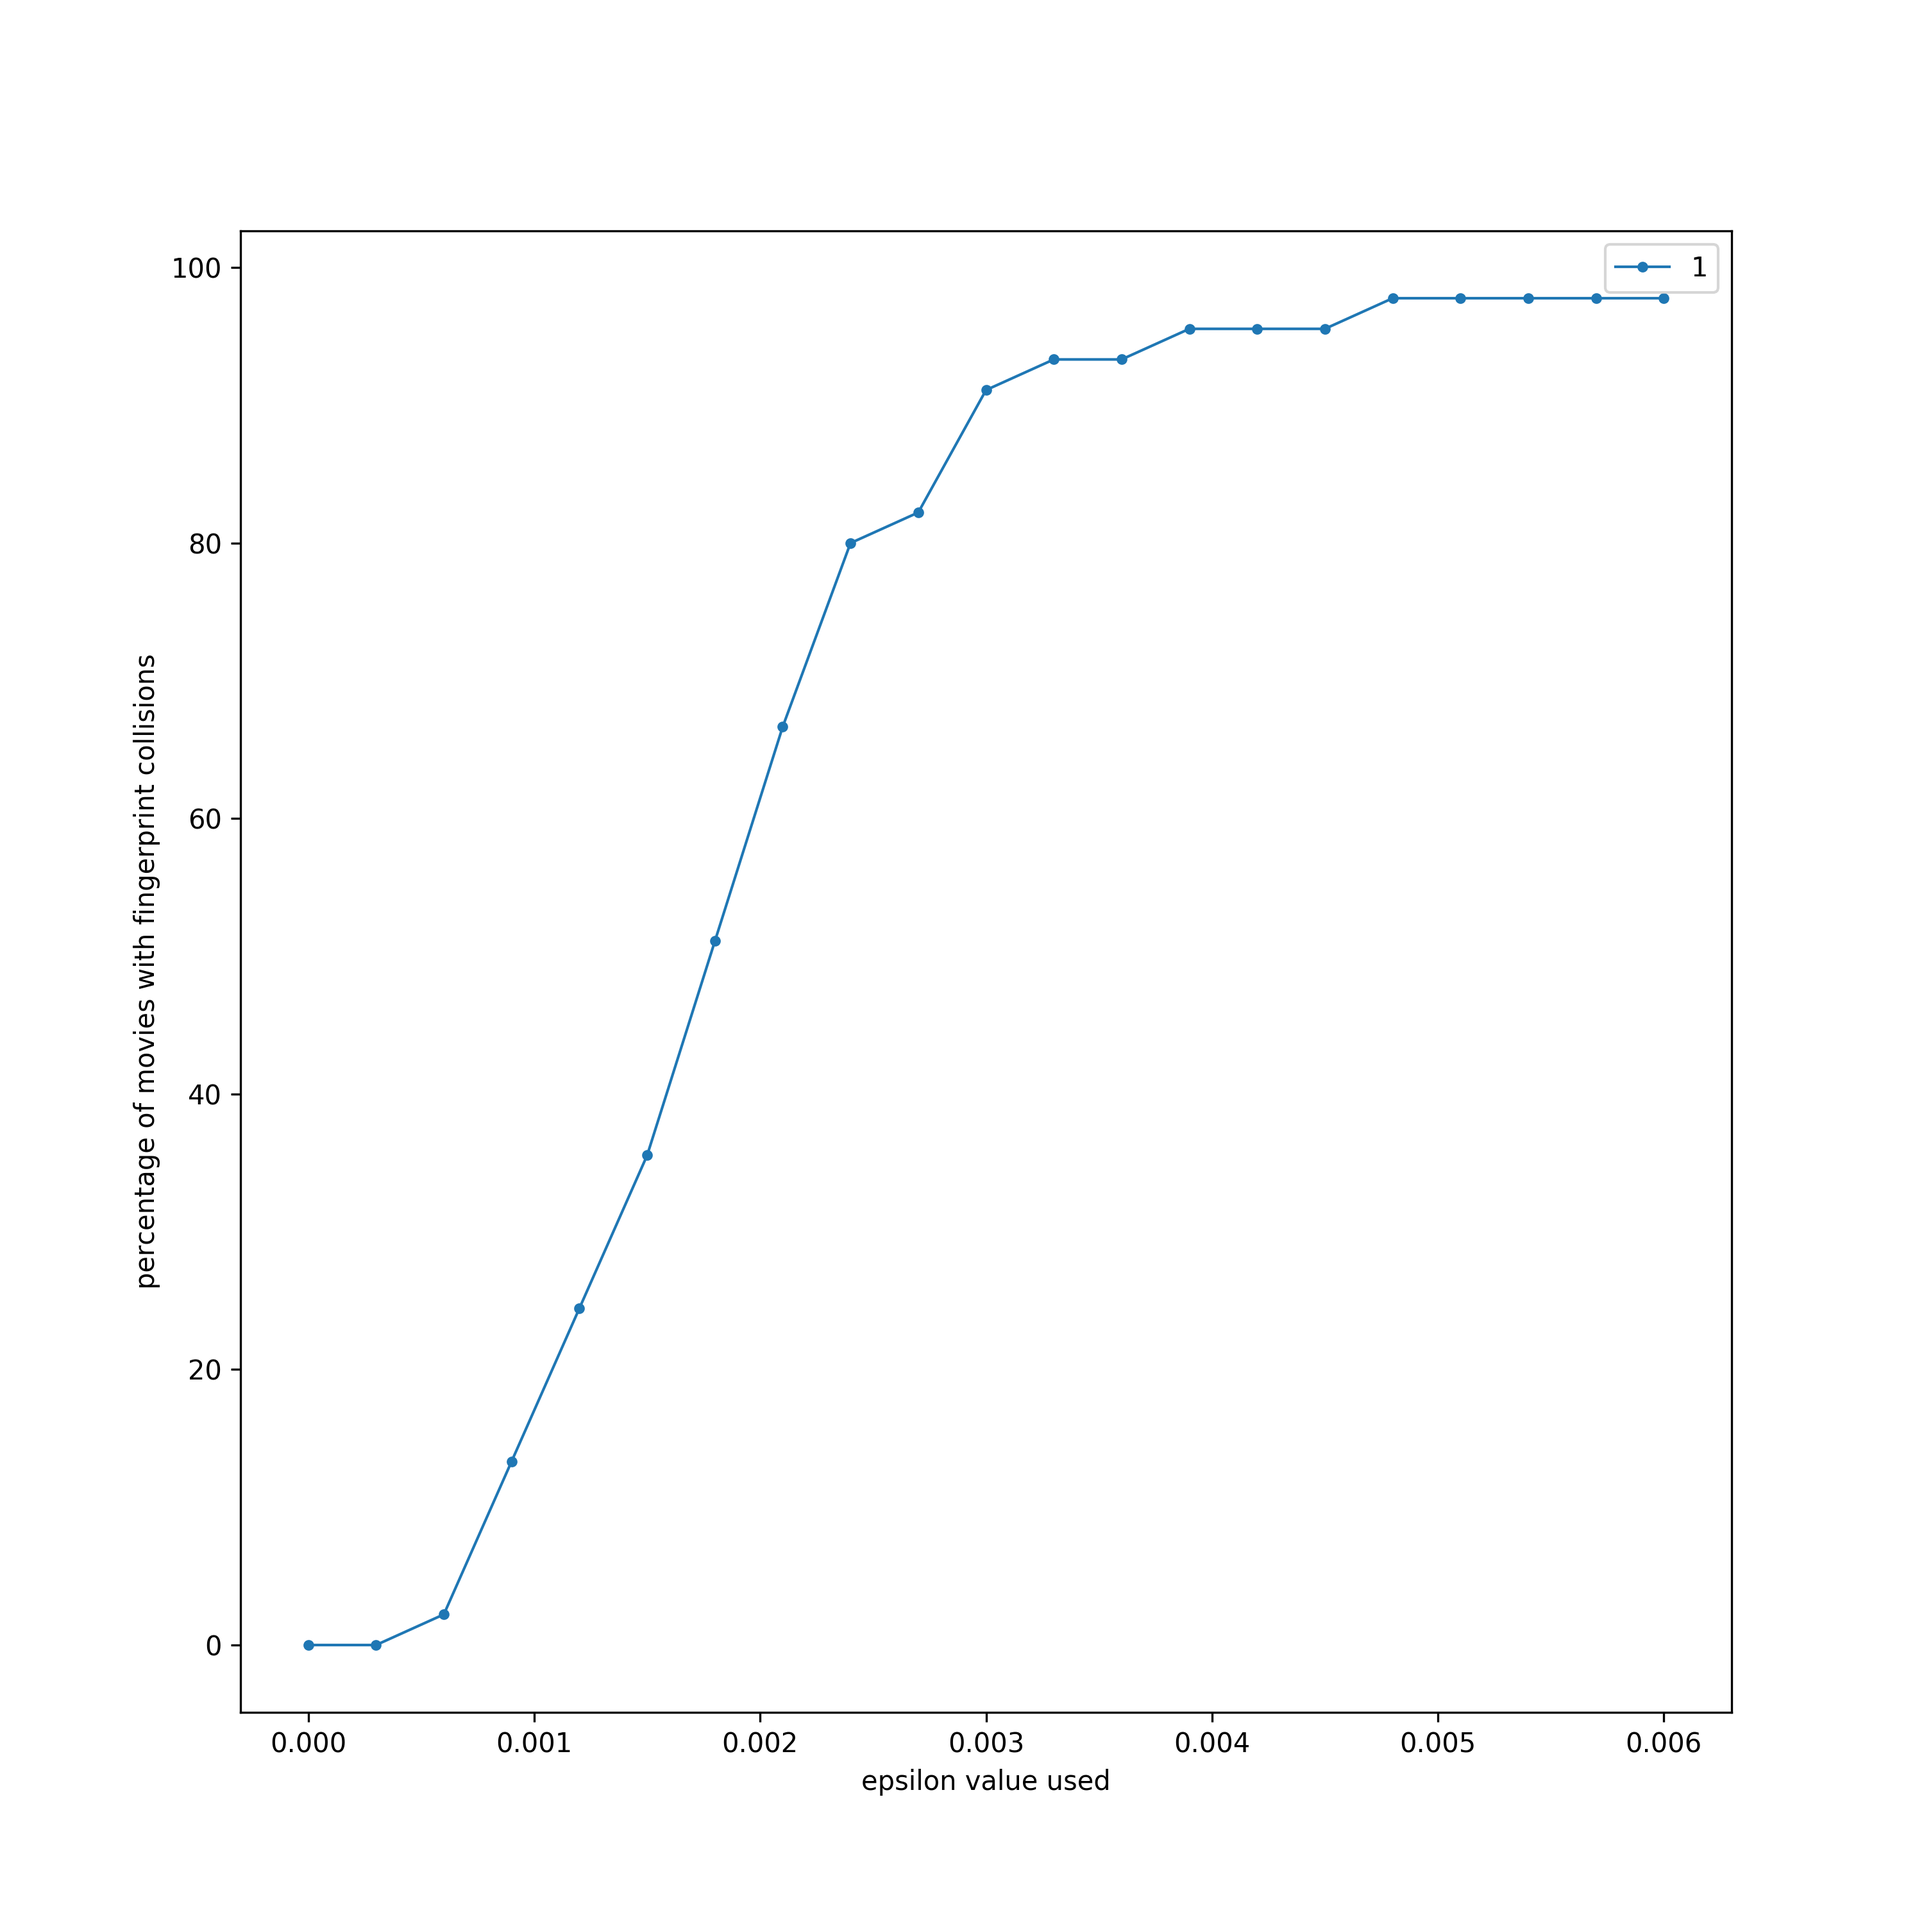
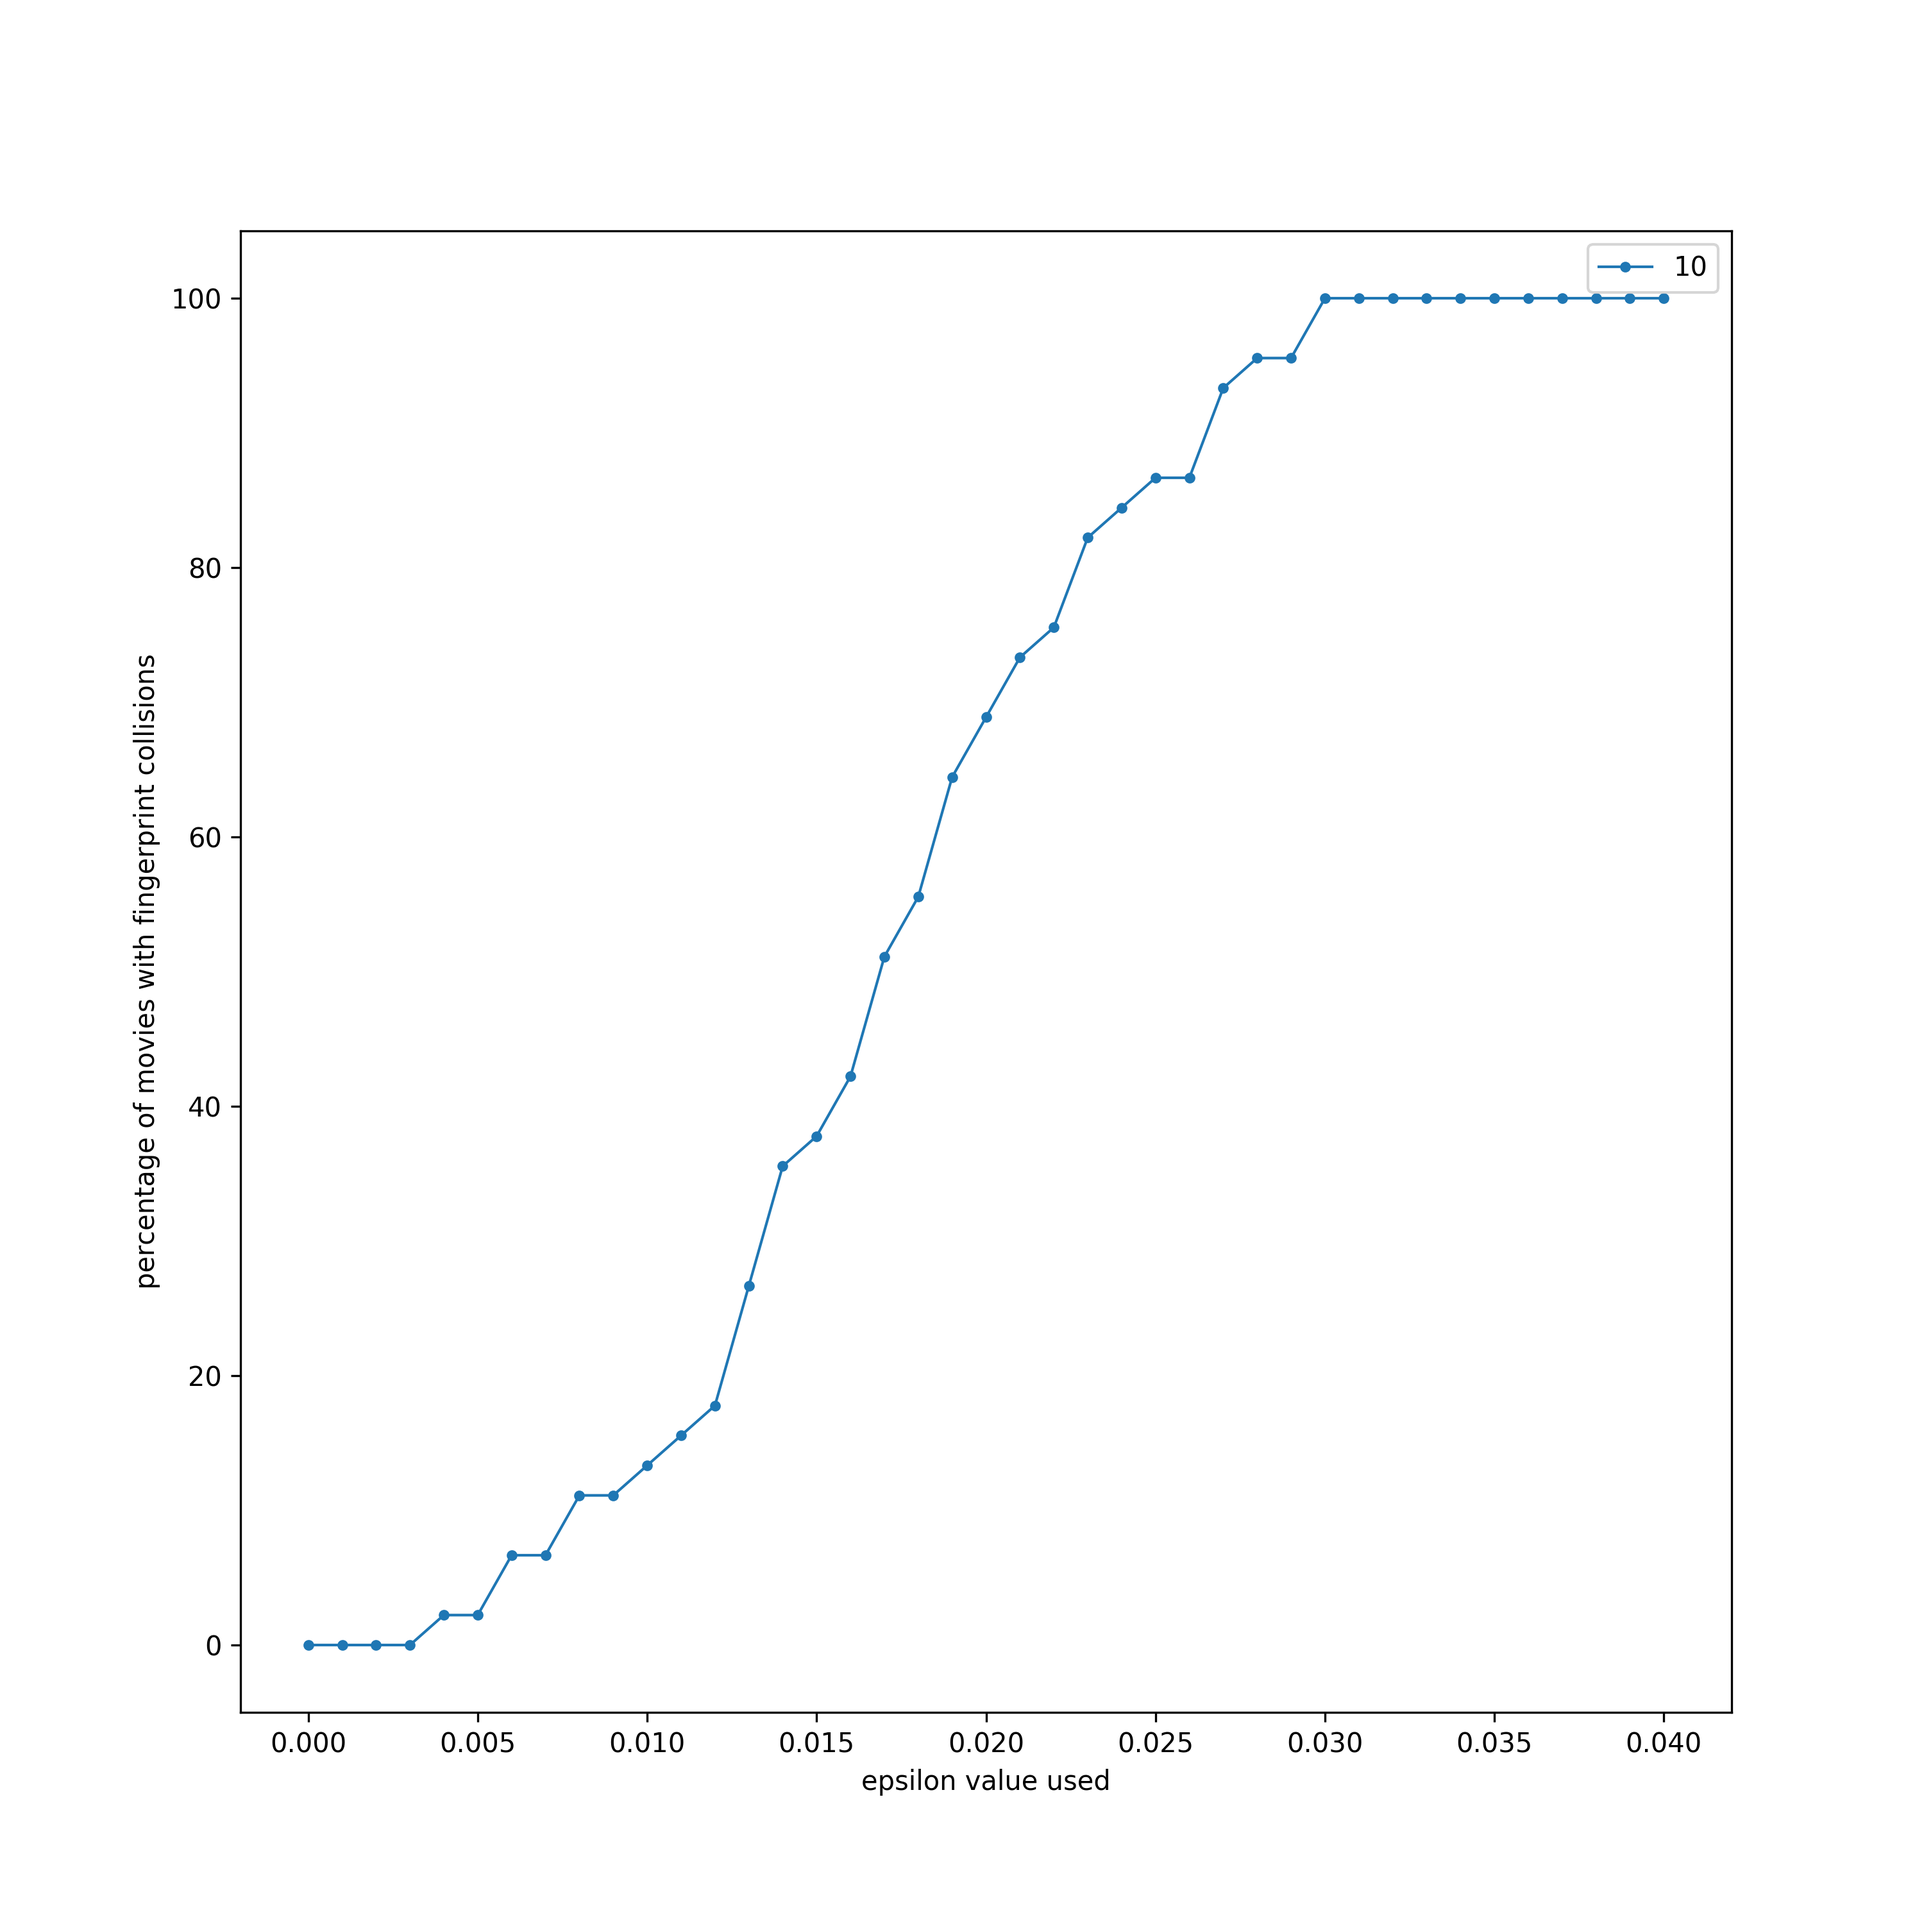
new plots!

diff --git a/4_analysis/plot_attacker.py b/4_analysis/plot_attacker.py
@@ -1,6 +1,8 @@
-# this first queries the expected packets to be captured by an attacker looking at all different bitrates
-# then it queries the database with distored package sizes and checking for the amount of matches
-
+# this simulates different attacker modes and generates an abundance of plots
+# you can change any values written in CAPS to get the desired plots with the desired resolution
+# this script has grown a lot; it would need large refactoring to be really readable again
+# to make it easier to understand the attacks we have however externalized that part of the code
+# this file does therefore only contain the logic needed for plotting
 
 import matplotlib.pyplot as plt
 import sqlite3
@@ -11,19 +13,20 @@ from query_helper import QueryHelper
 config = StaticConfig()
 inventory = Inventory()
 
-START_AGGREGATION = 1
-LAST_AGGREGATION = 1
+START_AGGREGATION = 10
+LAST_AGGREGATION = 10
 
 START_PACKAGE_PER_BITRATE = 1
-LAST_PACKAGE_PER_BITRATE = 10
+LAST_PACKAGE_PER_BITRATE = 1
 
-EPSILON_STEP = 0.0003
-LAST_EPSILON = 0.006
+EPSILON_STEP = 0.001
+LAST_EPSILON = 0.04
 
 MAX_MOVIES = 100
 
-# possible modes are bitrate or naive
+# switch modes if you want more plots of the OTHER_MODE mode
 MODE = "bitrate"
+OTHER_MODE = "naive"
 
 # get sqlite connection
 db_file_name = "plot_data.sqlite"
@@ -42,10 +45,13 @@ for package_per_bitrate in range(START_PACKAGE_PER_BITRATE, LAST_PACKAGE_PER_BIT
         epsilon = current_epsilon_multiplication * EPSILON_STEP
 
         epsilon_collisions = {}
+        other_epsilon_collisions = {}
+        collision_numbers = {}
 
         while epsilon <= LAST_EPSILON:
             # prepare collision dict
-            collisions = {}
+            mode_collisions = {}
+            other_collisions = {}
             checked = 0
             check_print_interval = 1000
 
@@ -69,14 +75,21 @@ for package_per_bitrate in range(START_PACKAGE_PER_BITRATE, LAST_PACKAGE_PER_BIT
                 cursor.execute("SELECT id FROM captures WHERE movie_id = ?", [movie_id])
                 db_bitrates = cursor.fetchall()
 
-                matching_movies = False
-                if MODE == "bitrate":
-                    matching_movies = query_helper.bitrate_attack(db_bitrates, db_movies, aggregation, epsilon,
+                # perform attacks
+                bitrate_matching_movies = query_helper.bitrate_attack(db_bitrates, db_movies, aggregation, epsilon,
+                                                              packet_table_name, package_per_bitrate)
+                naive_matching_movies = query_helper.naive_attack(db_bitrates, db_bitrates[0][0], db_movies,
+                                                                  aggregation,
+                                                                  epsilon,
                                                                   packet_table_name, package_per_bitrate)
+                matching_movies = False
+                other_matching_movies = False
+                if MODE == "bitrate":
+                    matching_movies = bitrate_matching_movies
+                    other_matching_movies = naive_matching_movies
                 elif MODE == "naive":
-                    matching_movies = query_helper.naive_attack(db_bitrates, db_bitrates[0][0], db_movies, aggregation,
-                                                                epsilon,
-                                                                packet_table_name, package_per_bitrate)
+                    matching_movies = naive_matching_movies
+                    other_matching_movies = bitrate_matching_movies
 
                 if matching_movies is False:
                     print("skipping " + str(movie_id))
@@ -87,9 +100,16 @@ for package_per_bitrate in range(START_PACKAGE_PER_BITRATE, LAST_PACKAGE_PER_BIT
 
                 # count collisions
                 result_count = len(matching_movies)
-                if result_count not in collisions:
-                    collisions[result_count] = 0
-                collisions[result_count] += 1
+                if result_count not in mode_collisions:
+                    mode_collisions[result_count] = 0
+                mode_collisions[result_count] += 1
+
+                # count other collisions
+                if other_matching_movies is not False:
+                    result_count = len(other_matching_movies)
+                    if result_count not in other_collisions:
+                        other_collisions[result_count] = 0
+                    other_collisions[result_count] += 1
 
                 # log collisions to console for fast feedback
                 conflict_movies = filter(lambda e: e != movie_id, matching_movies)
@@ -100,21 +120,23 @@ for package_per_bitrate in range(START_PACKAGE_PER_BITRATE, LAST_PACKAGE_PER_BIT
                     print("no collisions found for " + str(movie_id))
 
             # use percentage & correct order in graph
-            if len(collisions) == 0:
+            if len(mode_collisions) == 0:
                 break
 
-            movies_checked = sum(collisions.values())
+            # create figure collision dict
+            movies_checked = sum(mode_collisions.values())
             figure_collisions = {}
-            for i in range(1, max(collisions.keys()) + 1):
-                if i in collisions:
-                    figure_collisions[i] = collisions[i]
+            for i in range(1, max(mode_collisions.keys()) + 1):
+                if i in mode_collisions:
+                    figure_collisions[i] = mode_collisions[i]
                 else:
                     figure_collisions[i] = 0
 
             # prepare plot
             plt.figure(figsize=(10, 10))
-            plt.xlabel("amount of different movies matching fingerprint for " + str(
-                movies_checked) + " checked movies with " + str(package_per_bitrate) + " packages per bitrate")
+            plt.xlabel("amount of different movies matching fingerprint for " +
+                       str(movies_checked) + " checked movies with " +
+                       str(package_per_bitrate) + " packages per bitrate")
             plt.ylabel("how often this happened")
             plt.plot(figure_collisions.keys(), figure_collisions.values(), label=str(aggregation), marker='.',
                      linewidth=1)
@@ -130,12 +152,24 @@ for package_per_bitrate in range(START_PACKAGE_PER_BITRATE, LAST_PACKAGE_PER_BIT
             print()
             print()
 
+            # remember collisions for the aggregated plot
+            collision_numbers[epsilon] = {}
+            collision_numbers[epsilon][0] = figure_collisions.keys()
+            collision_numbers[epsilon][1] = figure_collisions.values()
+
             # remember collisions for overall plot
             total_collisions = 0
-            for i in range(2, max(collisions.keys()) + 1):
-                if i in collisions:
-                    total_collisions += collisions[i]
+            for i in range(2, max(mode_collisions.keys()) + 1):
+                if i in mode_collisions:
+                    total_collisions += mode_collisions[i]
             epsilon_collisions[epsilon] = total_collisions / movies_checked * 100
+
+            # remember collisions for secondary plot
+            total_collisions = 0
+            for i in range(2, max(other_collisions.keys()) + 1):
+                if i in other_collisions:
+                    total_collisions += other_collisions[i]
+            other_epsilon_collisions[epsilon] = total_collisions / movies_checked * 100
 
             # prepare next iteration
             current_epsilon_multiplication += 1
@@ -143,10 +177,30 @@ for package_per_bitrate in range(START_PACKAGE_PER_BITRATE, LAST_PACKAGE_PER_BIT
 
         # prepare plot
         plt.figure(figsize=(10, 10))
+        plt.xlabel("amount of different movies matching fingerprint")
+        plt.ylabel("how often this happened")
+        for epsilon in collision_numbers:
+            plt.plot(collision_numbers[epsilon][0], collision_numbers[epsilon][1], label=str(epsilon), marker='.',
+                     linewidth=1)
+        plt.legend()
+
+        # save
+        plt.savefig(config.plot_dir + "/" + MODE + "_collisions_over_bitrates_" +
+                    str(aggregation) + "_" +
+                    str(package_per_bitrate) + ".png",
+                    dpi=300)
+        plt.close()
+        print("generated plot")
+
+        # prepare plot
+        plt.figure(figsize=(10, 10))
         plt.xlabel("epsilon value used")
         plt.ylabel("percentage of movies with fingerprint collisions")
-        plt.plot(epsilon_collisions.keys(), epsilon_collisions.values(), label=str(aggregation), marker='.',
+        plt.plot(epsilon_collisions.keys(), epsilon_collisions.values(), label=str(MODE), marker='.',
                  linewidth=1)
+        plt.plot(other_epsilon_collisions.keys(), other_epsilon_collisions.values(), label=str(OTHER_MODE), marker='.',
+                 linewidth=1)
+        plt.legend()
 
         # save
         plt.savefig(config.plot_dir + "/" + MODE + "_collisions_over_bitrates_over_epsilons_" +
